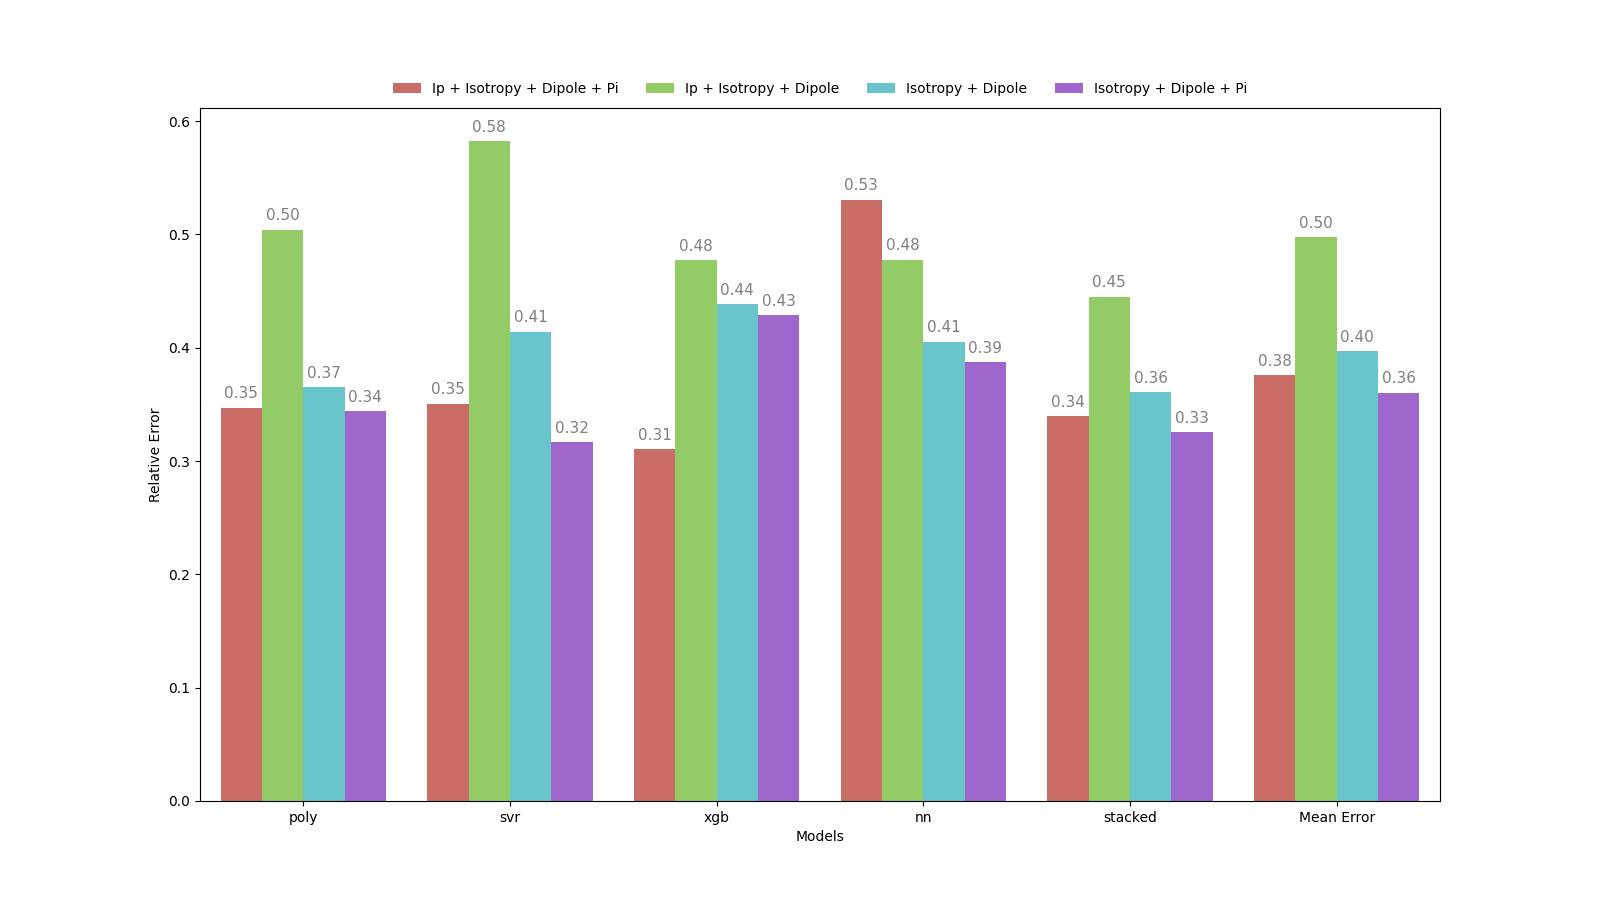
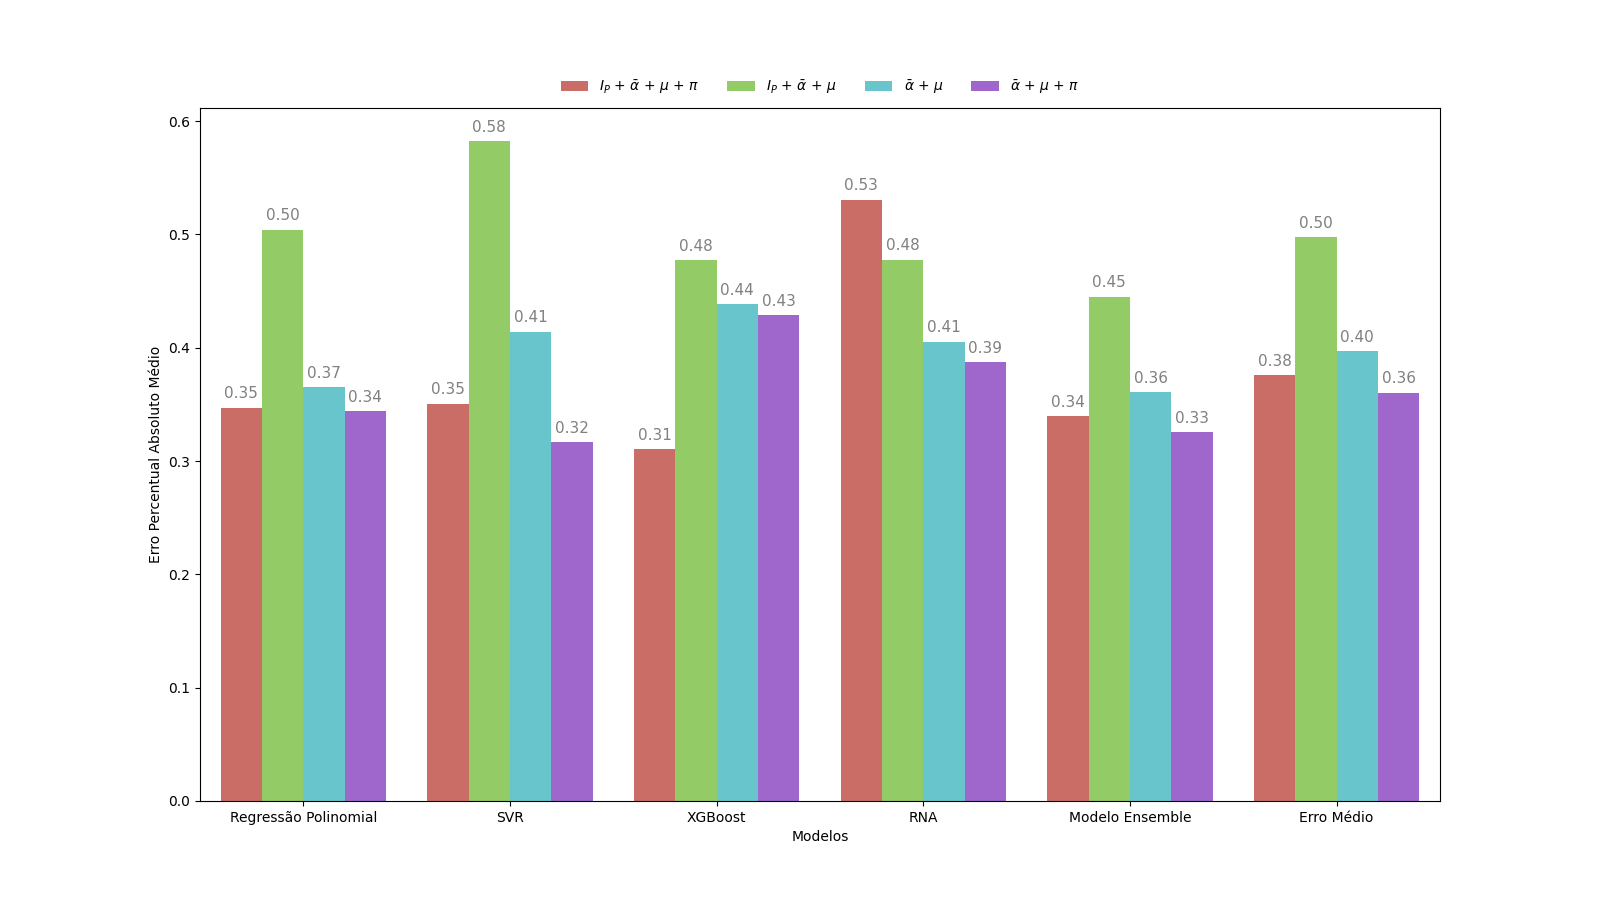
changed the graphs generated's

diff --git a/src/utils/evaluation.py b/src/utils/evaluation.py
@@ -151,12 +151,13 @@ def create_fast_graph(
     img_name,
     isotropy=True,
     img_path=None,
-    y="Relative Error",
+    y="Erro Percentual Absoluto Médio",
     palette="hls",
     title="Title",
     show_values=True,
     show_mean=True,
     figsize=(16, 9),
+    partial=False,
 ):
     """
     Create a barplot for the error of different models.
@@ -181,12 +182,23 @@ def create_fast_graph(
     columns = list(df.columns)
     for i in range(len(columns)):
         if "Ei" in columns[i]:
-            columns[i] = columns[i].replace("Ei", "Ip")
+            columns[i] = columns[i].replace("Ei", r"$I_{P}$")
+
         if "Alpha" in columns[i]:
-            if isotropy:
-                columns[i] = columns[i].replace("Alpha", "Isotropy")
+            if isotropy and not partial:
+                columns[i] = columns[i].replace("Alpha", r"$\alpha$")
+            elif isotropy and partial:
+                columns[i] = columns[i].replace("Alpha", r"$\bar\alpha$")
             else:
-                columns[i] = columns[i].replace("Alpha", "Anisotropy")
+                columns[i] = columns[i].replace(
+                    "Alpha", r"$\alpha_{(xx, yy, zz)}$"
+                )
+
+        if "Pi" in columns[i]:
+            columns[i] = columns[i].replace("Pi", r"$\pi$")
+
+        if "Dipole" in columns[i]:
+            columns[i] = columns[i].replace("Dipole", r"$\mu$")
 
     hue = columns
     models_name = list(df.index)
@@ -222,12 +234,25 @@ def create_fast_graph(
         "Feat_Comparison": hue_list,
     }
 
+    dict_for_map = {
+        "svr": "SVR",
+        "nn": "RNA",
+        "xgb": "XGBoost",
+        "poly": "Regressão Polinomial",
+        "stacked": "Modelo Ensemble",
+        "Mean Error": "Erro Médio",
+    }
+
+    for i, j in enumerate(dict_sns["Model"]):
+        if j in dict_for_map.keys():
+            dict_sns["Model"][i] = dict_for_map[j]
+
     plt.figure(figsize=figsize)
     ax = sns.barplot(
         data=dict_sns, x="Model", y=y, hue="Feat_Comparison", palette=palette
     )
 
-    ax.set_xlabel("Models")
+    ax.set_xlabel("Modelos")
     ax.set_ylabel(f"{y}")
     ax.set_title("")
 
@@ -258,15 +283,24 @@ def create_fast_graph(
         plt.savefig(f"{img_path}/{img_name}")
 
 
-def plot_all_fast_graphs(list_of_df, img_path, img_names):
+def plot_all_fast_graphs(list_of_df, img_path, img_names, partial=False):
 
     for i, j in enumerate(list_of_df):
+        if "partial" in img_names[i]:
+            partial = True
+
         if "aniso" in img_names[i]:
             create_fast_graph(
-                j, isotropy=False, img_path=img_path, img_name=img_names[i]
+                j,
+                isotropy=False,
+                img_path=img_path,
+                img_name=img_names[i],
+                partial=partial,
             )
         else:
-            create_fast_graph(j, img_path=img_path, img_name=img_names[i])
+            create_fast_graph(
+                j, img_path=img_path, img_name=img_names[i], partial=partial
+            )
 
 
 def create_mean_results(dict, features, error_column):
